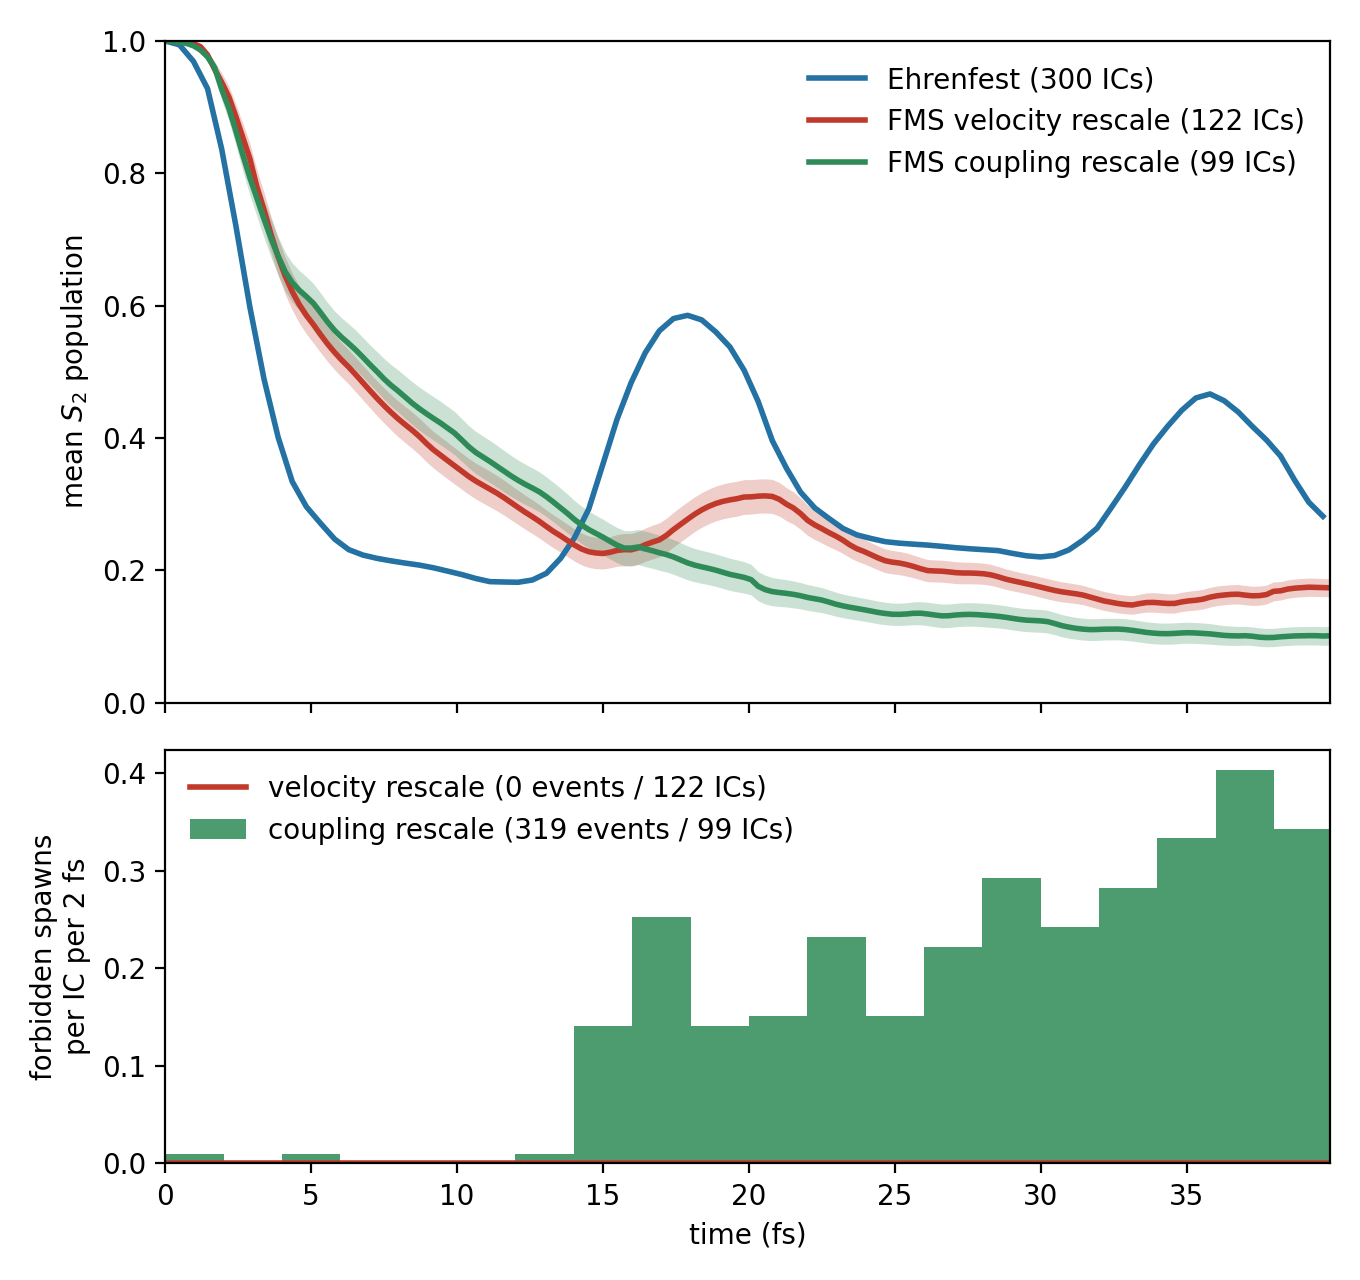
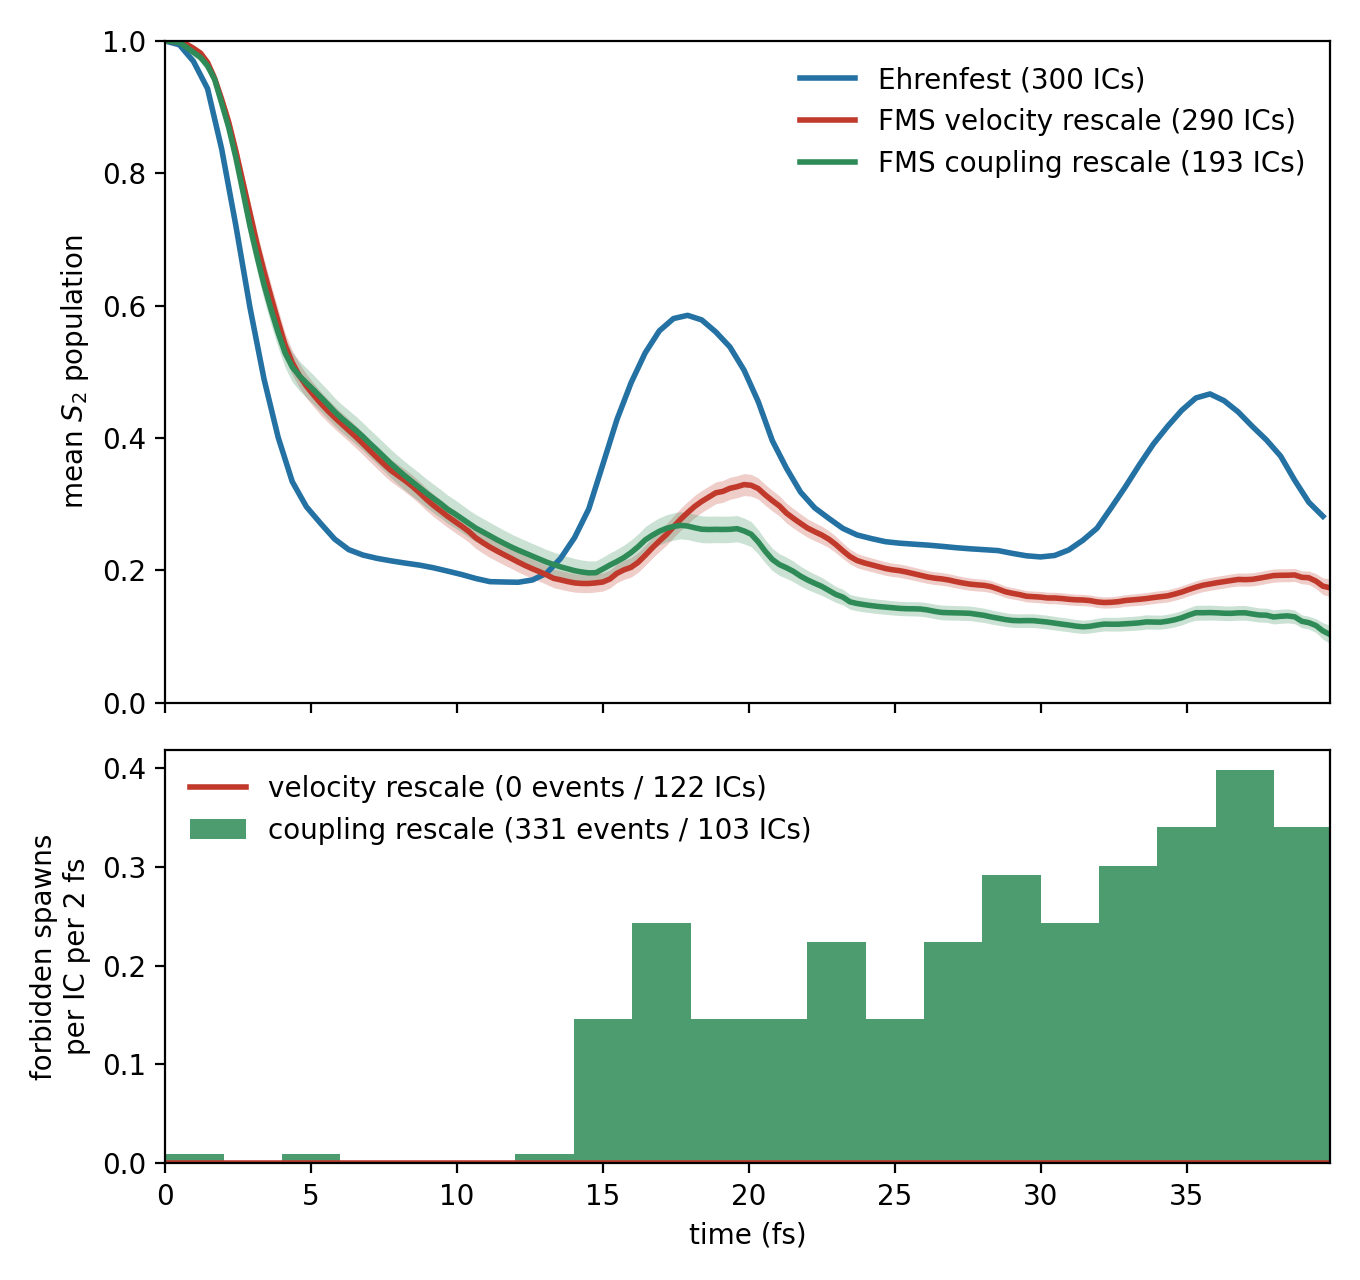
figures: F5 with salvaged walltime-killed runs (290/193 ICs)
The 261 timed-out runs all reached ~39 fs; their node-local scratch
snapshots survived and were banked via per-node SLURM micro-jobs (+ssh
fallback on 3 full nodes), norm-guarded (3 rejected at >5% drift).
Aggregation is now coverage-aware (nanmean, n(t) saved). Result: with
the deep-spawn-tree runs included, the FIRST recurrence emerges in BOTH
rescale modes (velocity +0.15, coupling +0.05 bump); the second stays
absent. Forbidden-spawn panel normalized by completed-run count (events
are not recoverable from salvaged snapshots).

diff --git a/report/figures/F5_FMS/plot.py b/report/figures/F5_FMS/plot.py
@@ -52,14 +52,16 @@ ax1.set_ylim(0, 1.0)
 ax1.legend(frameon=False)
 
 # --- panel B: forbidden (gate-rejected) spawn density over time ---
+# event logs exist only for runs that completed in-band (salvaged runs carry
+# no event data), so the per-IC normalization uses the completed count
 edges = np.arange(0.0, tmax + BINW, BINW)
 fr_c = d["coupling_frustrated_times_fs"]
-n_c = int(d["coupling_n"])
+n_c = int(d.get("coupling_n_completed", d["coupling_n"]))
 hist, _ = np.histogram(fr_c, bins=edges)
 ax2.bar(edges[:-1], hist / n_c, width=BINW, align="edge",
         color=COL["coupling"], alpha=0.85,
         label=f"coupling rescale ({len(fr_c)} events / {n_c} ICs)")
-n_v = int(d["velocity_n"])
+n_v = int(d.get("velocity_n_completed", d["velocity_n"]))
 ax2.axhline(0.0, color=COL["velocity"], lw=2.0,
             label=f"velocity rescale (0 events / {n_v} ICs)")
 ax2.set_xlabel("time (fs)")